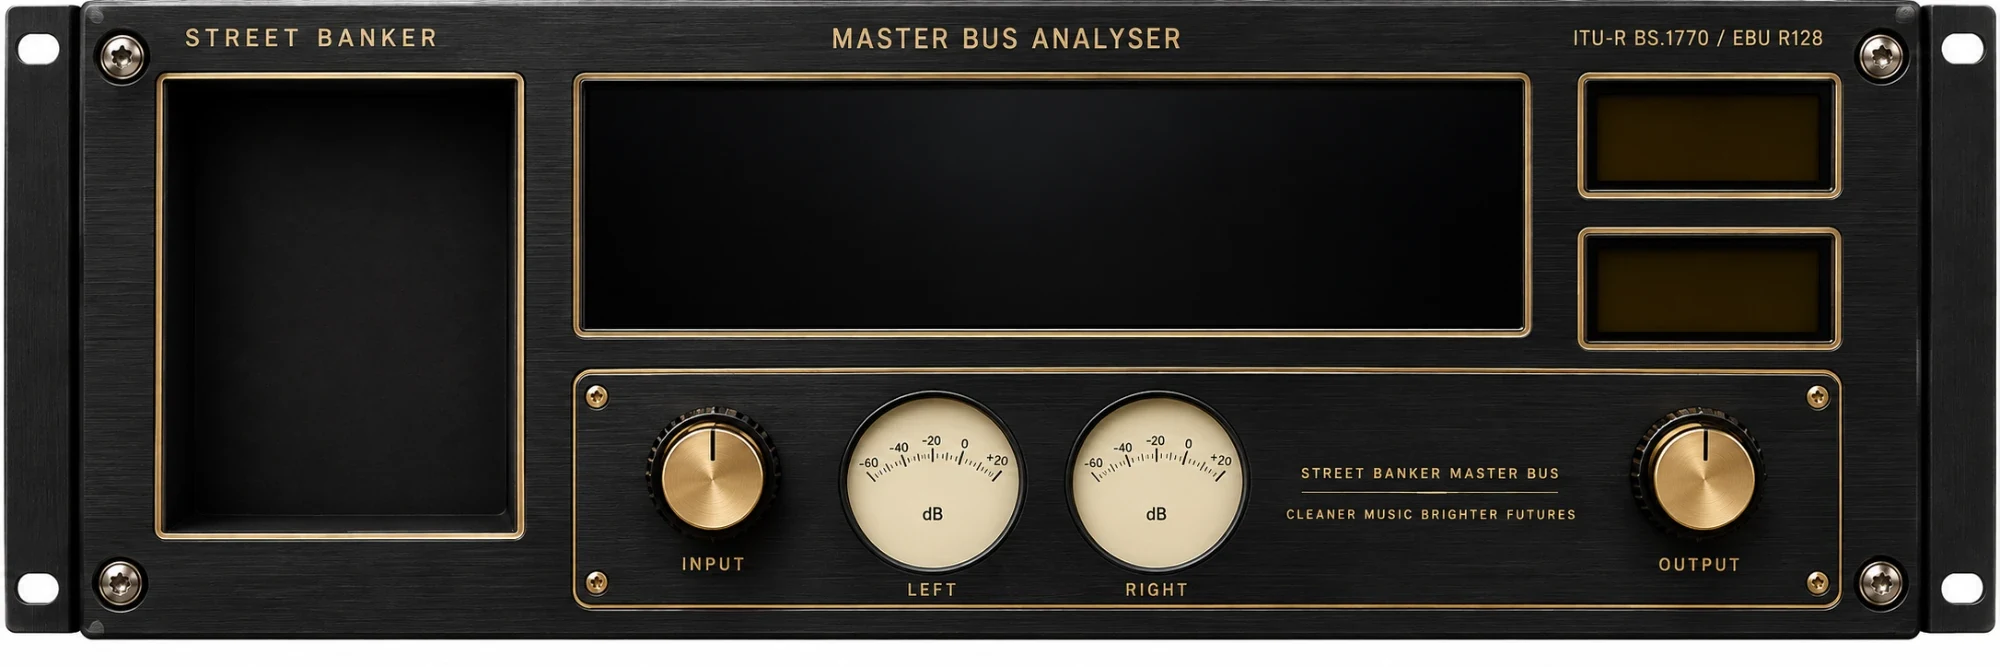
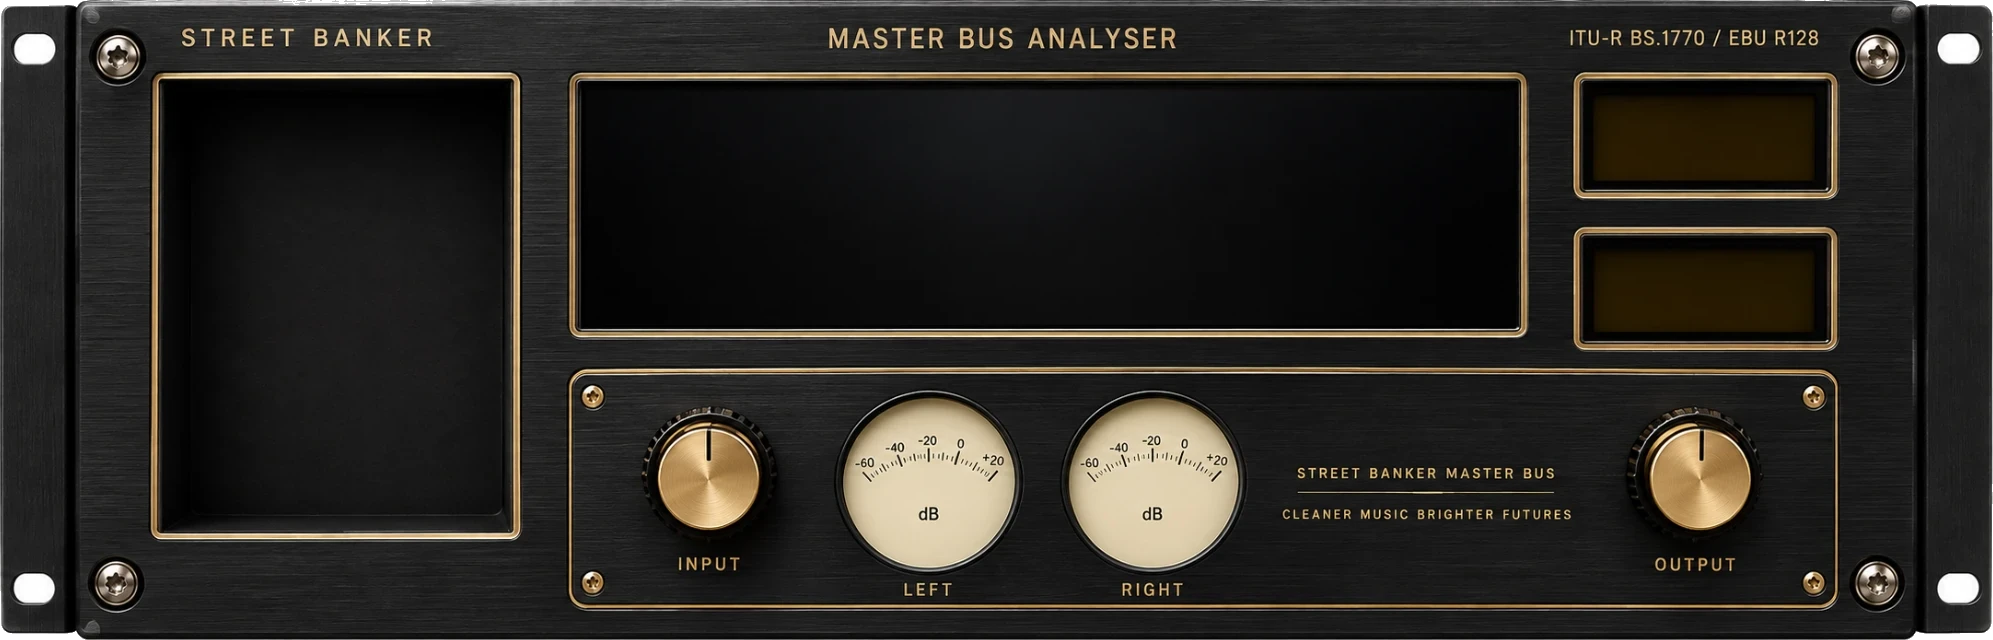
Studio: the container context, the plate's white ground, and a real invitation
Owner, 2026-09-22: "studio looks terrible ... it has a white background,
it's not transparent. The words are coming off of the plate. And then you
have one little box for the cover art ... that is not engaging."

Three faults, all mine, all found in what he described.

THE WORDS COMING OFF THE PLATE. Every text size on the unit is a clamp() in
cqw, because the unit scales and its windows are fractions of it - and I
never set container-type on the unit. cqw resolves against an inline-size
container, so with none, all six declarations were invalid, the type fell
back to page size, and the plate's windows burst. This trap is written down
in my own notes and I walked into it anyway. A test now fails if the
container context goes missing, and a second one fails on cqh, which does
NOT resolve that way.

THE WHITE GROUND. The plate was RGB with no alpha on a white field, so the
corners outside the rack ears showed white against the page. It is cropped
to the hardware (1993x640) and every border-connected white pixel is now
transparent - flood-filled from the edges only, so the cream VU dials, which
are bright but not connected to the border, keep every pixel. Cropping moved
every fraction, so all of them were re-measured against the new file, and
the stylesheet says so in case the plate is ever regenerated.

THE COVER ART. With nothing on file the section was one dashed square
offering to make art, which is not an invitation, it is a form. It is now
[…]

Changed region(s): [[0.0, 0.0, 1.0, 1.0], [0.0, 0.7188, 0.0311, 0.75], [0.0, 0.6562, 0.0311, 0.6875]]

diff --git a/static/css/studio-room.css b/static/css/studio-room.css
@@ -19,19 +19,25 @@
 
 .sd-unit {
   position: relative; width: 100%; margin: 0 auto; line-height: 0;
+  /* EVERY cqw below needs this and it was missing, so every clamp() was
+     invalid and the plate's text fell back to page-sized type and burst out
+     of its windows. cqw resolves against an inline-size container; cqh does
+     NOT, which is why nothing here is sized off the height. */
+  container-type: inline-size;
   /* --- plate regions, MEASURED off static/img/studio-bus-plate.webp
-         (2000x667) with PIL, as fractions, so the overlays hold their
-         windows at any width. Re-measure if the plate is ever regenerated:
-         the windows move and nothing in code will tell you. --------------- */
-  --bay-x: 8.25%;   --bay-y: 11.84%;  --bay-w: 17.45%; --bay-h: 67.62%;
-  --disp-x: 29.10%; --disp-y: 12.14%; --disp-w: 47.05%; --disp-h: 37.03%;
-  --lcd-x: 84.5%;   --lcd-w: 12.0%;
-  --lcd-top-y: 11.99%; --lcd-top-h: 16.34%;
-  --lcd-bot-y: 35.38%; --lcd-bot-h: 15.74%;
-  /* The dials: centres and the pivot the needle swings from, which on a VU
-     is below the face, not at its middle. */
-  --vu-l-x: 46.77%; --vu-r-x: 58.00%;
-  --vu-pivot-y: 84.5%; --vu-len: 17%;
+         (1993x640, cropped from the original and border-white cleared to
+         alpha - it was RGB on a white ground and the corners showed).
+         RE-MEASURE IF THE PLATE IS EVER REGENERATED OR RE-CROPPED: cropping
+         moves every fraction and nothing in code will tell you. ---------- */
+  --bay-x: 8.08%;   --bay-y: 12.34%; --bay-w: 17.51%; --bay-h: 70.47%;
+  --disp-x: 29.00%; --disp-y: 12.66%; --disp-w: 47.22%; --disp-h: 38.75%;
+  --lcd-x: 84.6%;   --lcd-w: 12.0%;
+  --lcd-top-y: 12.50%; --lcd-top-h: 17.19%;
+  --lcd-bot-y: 36.88%; --lcd-bot-h: 16.41%;
+  /* The dials, and the pivot a VU needle swings from - below the face. */
+  --vu-l-x: 46.74%; --vu-r-x: 58.00%;
+  --vu-pivot-y: 88%; --vu-len: 18%;
+
 }
 .sd-plate { display: block; width: 100%; height: auto; }
 
@@ -54,27 +60,28 @@
 .sd-display {
   position: absolute; left: var(--disp-x); top: var(--disp-y);
   width: var(--disp-w); height: var(--disp-h);
-  padding: 2.2% 2.6%; line-height: 1.3; overflow: hidden;
+  display: flex; flex-direction: column; justify-content: center;
+  padding: 0 3%; line-height: 1.25; overflow: hidden;
 }
 .sd-track { margin: 0; font-size: clamp(14px, 1.6cqw, 26px); font-weight: 800; color: var(--sb-ink); }
 .sd-track--none { color: var(--sb-ink-2); }
 .sd-source { margin: 2px 0 0; font-size: clamp(9px, 0.85cqw, 13px); color: var(--sb-ink-2); }
 .sd-wave {
-  margin-top: 6%; height: 46%;
-  /* The waveform the Rack measured. Until a stored shape exists this is the
-     instrument's own idle trace, and the display says in words that nothing
-     has been measured - it is never presented as the artist's audio. */
-  background:
-    repeating-linear-gradient(90deg,
-      var(--sb-gold-bright) 0 1px, transparent 1px 4px);
-  -webkit-mask-image: linear-gradient(180deg, transparent 6%, #000 20%, #000 80%, transparent 94%);
-  mask-image: linear-gradient(180deg, transparent 6%, #000 20%, #000 80%, transparent 94%);
-  opacity: .75;
+  /* NOT a waveform. The Rack stores numbers, not a shape, so drawing bars
+     here would be inventing the artist's audio - and the striped gradient
+     that first stood in for it looked like a barcode. This is the meter's
+     own baseline: one lit trace across the display, which is honest about
+     being an instrument at rest rather than a picture of their music. */
+  margin-top: 4%; height: 2px; border-radius: 2px;
+  background: linear-gradient(90deg,
+    transparent 0%, color-mix(in srgb, var(--sb-gold-bright) 70%, transparent) 12%,
+    var(--sb-gold-bright) 50%,
+    color-mix(in srgb, var(--sb-gold-bright) 70%, transparent) 88%, transparent 100%);
+  box-shadow: 0 0 12px color-mix(in srgb, var(--sb-gold) 45%, transparent);
 }
 .sd-wave.is-flat {
-  background: linear-gradient(180deg, transparent 49%, var(--sb-line-strong) 49%,
-              var(--sb-line-strong) 51%, transparent 51%);
-  opacity: 1;
+  background: var(--sb-line-strong);
+  box-shadow: none;
 }
 
 /* ---- the two readouts -------------------------------------------------- */
@@ -144,4 +151,37 @@
      read. */
   .sd-unit { --disp-h: 46%; }
   .sd-lcd-l { display: none; }
+}
+
+/* The invitation, when there is no art yet. It is the size the thing
+   deserves rather than one dashed square (owner, 2026-09-22: "that is not
+   engaging"). The frames are frames - nothing here pretends to be artwork
+   this account made. */
+.sd-art-invite {
+  display: grid; grid-template-columns: minmax(0, 1fr) minmax(0, 1.1fr);
+  gap: 24px; align-items: center; margin-top: 14px;
+}
+.sd-art-said { min-width: 0; }
+.sd-art-h { margin: 0; font-family: var(--sb-display); font-size: 30px; line-height: 1.1;
+  font-weight: 800; font-variation-settings: "wdth" 112; color: var(--sb-ink); }
+.sd-art-p { margin: 10px 0 18px; max-width: 44ch; font-size: 14px; line-height: 1.6; color: var(--sb-ink-2); }
+.sd-art-frames { display: flex; justify-content: center; gap: 16px; padding: 8px 0; }
+.sd-frame {
+  display: block; width: 30%; max-width: 150px; aspect-ratio: 1; border-radius: var(--sb-r-control);
+  border: 1px solid var(--sb-line-strong);
+  background: linear-gradient(150deg, var(--sb-surface-2), var(--sb-ground) 70%);
+  box-shadow: var(--sb-e2);
+}
+.sd-frame--a { transform: rotate(-5deg) translateY(6px); }
+.sd-frame--c { transform: rotate(5deg) translateY(6px); }
+.sd-frame--b {
+  border-color: var(--sb-gold-line);
+  background:
+    radial-gradient(120% 120% at 30% 10%, color-mix(in srgb, var(--sb-gold) 18%, transparent), transparent 62%),
+    linear-gradient(150deg, var(--sb-surface-2), var(--sb-ground) 70%);
+}
+
+@media (max-width: 860px) {
+  .sd-art-invite { grid-template-columns: minmax(0, 1fr); }
+  .sd-art-h { font-size: 24px; }
 }

diff --git a/templates/room_studio.html b/templates/room_studio.html
@@ -3,7 +3,7 @@
 {% block title %}Studio Room{% endblock %}
 {% block head_scripts %}
   <link rel="stylesheet" href="/static/css/room-kit.css?v=2">
-  <link rel="stylesheet" href="/static/css/studio-room.css?v=1">
+  <link rel="stylesheet" href="/static/css/studio-room.css?v=2">
 {% endblock %}
 
 {#- THE STUDIO ROOM - the owner's mockup, 2026-09-22, and his brief for every
@@ -77,7 +77,7 @@
   <section class="sd-unit{% if not a.measured %} is-idle{% endif %}"
            aria-label="{% if a.measured %}Your last measured master, {{ a.title }}{% else %}The master bus analyser, with nothing measured yet{% endif %}">
     <img class="sd-plate" src="/static/img/studio-bus-plate.webp" alt=""
-         width="2000" height="656" decoding="async">
+         width="1993" height="640" decoding="async">
 
     {# the bay: the artist's own cover, or an empty sleeve #}
     <div class="sd-bay">
@@ -96,9 +96,9 @@
       {% if a.measured %}
       <p class="sd-track">{{ a.title }}</p>
       <p class="sd-source">{% if sd.artist_name %}{{ sd.artist_name }} &middot; {% endif %}{{ a.source }}</p>
-      {#- The waveform is drawn from the measurement's own shape where one
-          was stored; until then the display carries the reading rather than
-          a shape nobody measured. -#}
+      {#- NOT a waveform: the Rack stores numbers, not a shape, so bars here
+          would be inventing this artist's audio. It is the meter's own lit
+          baseline. -#}
       <div class="sd-wave" aria-hidden="true"></div>
       {% else %}
       <p class="sd-track sd-track--none">No master measured yet</p>
@@ -137,17 +137,25 @@
     </ol>
   </section>
 
-  {# ---- cover art ------------------------------------------------------- #}
+  {# ---- cover art ------------------------------------------------------
+       Owner, 2026-09-22: one small dashed box saying "create cover art" is
+       "not engaging ... not anything that is going to entice anybody to use
+       the page". So with nothing on file this is the invitation, at the
+       size the thing deserves: what the generator makes, in the generator's
+       own words, with one gold button. With covers on file it is their
+       gallery and the invitation becomes the last frame. #}
   <section class="rk-panel" aria-labelledby="sd-art-h">
     <div class="rk-panel-head">
       <div>
         <h2 class="rk-h" id="sd-art-h">Cover art</h2>
-        <p class="rk-said">Your own covers, newest first.</p>
+        <p class="rk-said">{% if sd.covers.total %}Your own covers, newest first.{% else %}Every release needs one. Make it here.{% endif %}</p>
       </div>
       {% if sd.covers.more %}
-      <a class="rk-more" href="/artwork">View all{{ icon("arrow", "rk-ico rk-ico--sm") }}</a>
+      <a class="rk-more" href="/artwork">View all {{ sd.covers.total }}{{ icon("arrow", "rk-ico rk-ico--sm") }}</a>
       {% endif %}
     </div>
+
+    {% if sd.covers.total %}
     <div class="sd-covers">
       {% for c in sd.covers.shown %}
       <a class="sd-cover" href="/artwork" title="{{ c.name }}">
@@ -157,9 +165,26 @@
       <a class="sd-cover sd-cover--new" href="/artwork">
         <span class="sd-new-ring">{{ icon("plus", "rk-ico") }}</span>
         <b>Create new art</b>
-        <span>Turn your sound into a cover.</span>
       </a>
     </div>
+    {% else %}
+    <div class="sd-art-invite">
+      <div class="sd-art-said">
+        <p class="sd-art-h">Turn your sound into a cover.</p>
+        <p class="sd-art-p">Describe the record and the generator makes artwork at
+          release size, yours to keep and re-run until it is right. Sleeves you upload
+          live here beside them.</p>
+        <a class="rk-cta" href="/artwork">{{ icon("artwork", "rk-ico") }}Make a cover</a>
+      </div>
+      {#- Frames, not pictures. Nothing here pretends to be art this account
+          made - they are the shape of what the generator returns. -#}
+      <div class="sd-art-frames" aria-hidden="true">
+        <span class="sd-frame sd-frame--a"></span>
+        <span class="sd-frame sd-frame--b"></span>
+        <span class="sd-frame sd-frame--c"></span>
+      </div>
+    </div>
+    {% endif %}
   </section>
 
   {# ---- closing tiles --------------------------------------------------- #}

diff --git a/static/js/sw.js b/static/js/sw.js
@@ -14,7 +14,7 @@
    copy is per-URL - query string included, because Show Command tabs and
    My Day dates live in the query - is whatever the server last sent that
    signed-in person, and is replaced on every successful load. */
-var VERSION = "sb-v305";   /* The Studio room opens on the master bus */
+var VERSION = "sb-v306";   /* Studio: container context, cropped plate, real invite */
 var PAGES = VERSION + "-tour";
 var PRECACHE = ["/static/offline.html", "/static/img/streetbanker-logo.svg",
                 "/static/img/icon-192.png", "/static/manifest.json"];

diff --git a/tests/test_studio_room.py b/tests/test_studio_room.py
@@ -168,3 +168,44 @@ def test_the_room_never_claims_a_track_is_released_or_approved():
     for claim in ("Approved", "Released", "Will pass", "Guaranteed",
                   "Ready for Spotify"):
         assert claim not in body, claim
+
+
+def test_the_plate_has_a_container_context_for_its_own_text():
+    """The bug the owner saw: "studio looks terrible".
+
+    Every text size on the plate is a clamp() in cqw, because the unit
+    scales and its windows are fractions. cqw resolves against an
+    inline-size container and there was none, so every one of those
+    declarations was invalid and the plate's text fell back to page-sized
+    type and burst out of its windows.
+
+    cqh does NOT resolve against an inline-size container, which is why
+    nothing here may be sized off the height.
+    """
+    import io as _io
+    import os as _os
+    here = _os.path.dirname(_os.path.dirname(_os.path.abspath(__file__)))
+    css = _io.open(_os.path.join(here, "static", "css", "studio-room.css"),
+                   encoding="utf-8").read()
+    unit = css.split(".sd-unit {", 1)[1].split("}", 1)[0]
+    assert "container-type: inline-size" in unit, (
+        "cqw sizes on the plate need an inline-size container or they are "
+        "all invalid")
+    # Comments stripped first: this file EXPLAINS the cqh trap in prose, and
+    # the first cut of this test failed on its own explanation.
+    import re as _re
+    code = _re.sub(r"/\*.*?\*/", "", css, flags=_re.S)
+    assert "cqh" not in code, "cqh does not resolve against an inline-size container"
+
+
+def test_the_display_does_not_draw_a_waveform_nobody_measured():
+    """The Rack stores numbers, not a shape. Bars across the display would
+    be inventing the artist's audio - and the striped gradient that first
+    stood in for one looked like a barcode."""
+    import io as _io
+    import os as _os
+    here = _os.path.dirname(_os.path.dirname(_os.path.abspath(__file__)))
+    css = _io.open(_os.path.join(here, "static", "css", "studio-room.css"),
+                   encoding="utf-8").read()
+    wave = css.split(".sd-wave {", 1)[1].split("}", 1)[0]
+    assert "repeating-linear-gradient" not in wave
